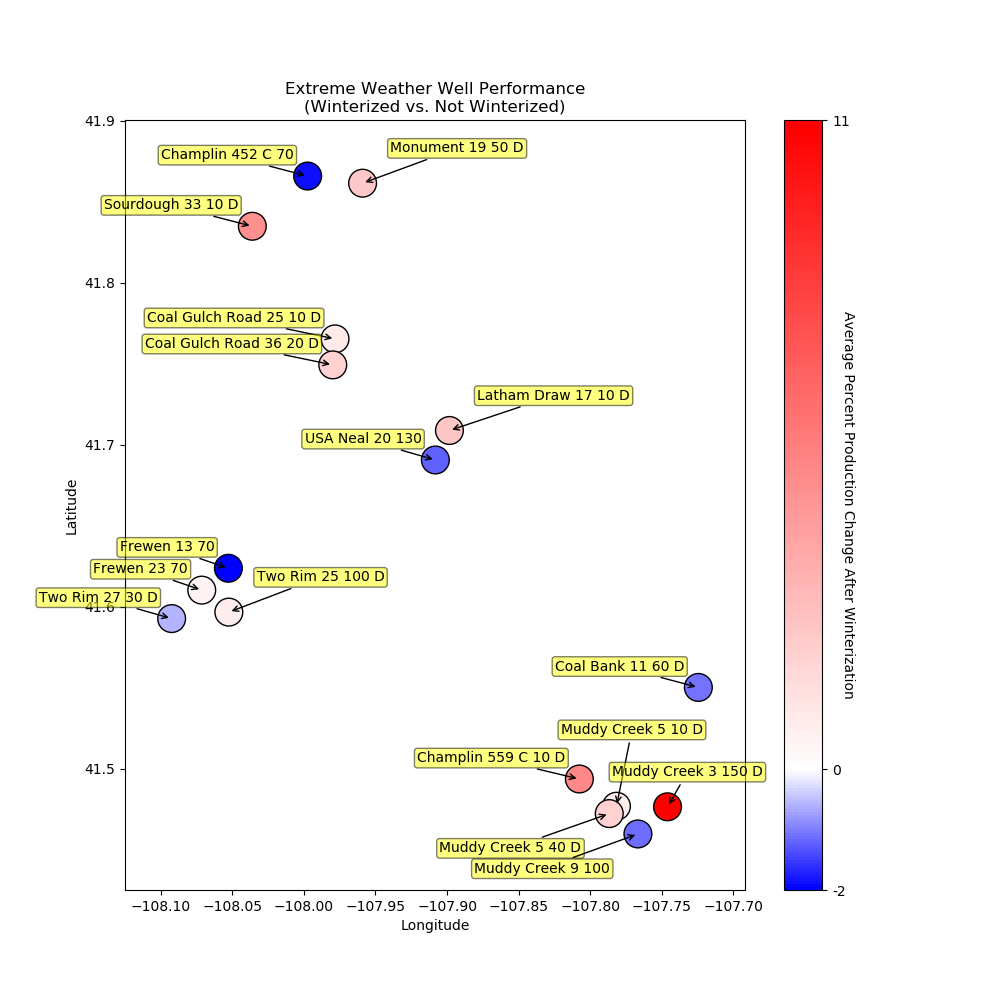
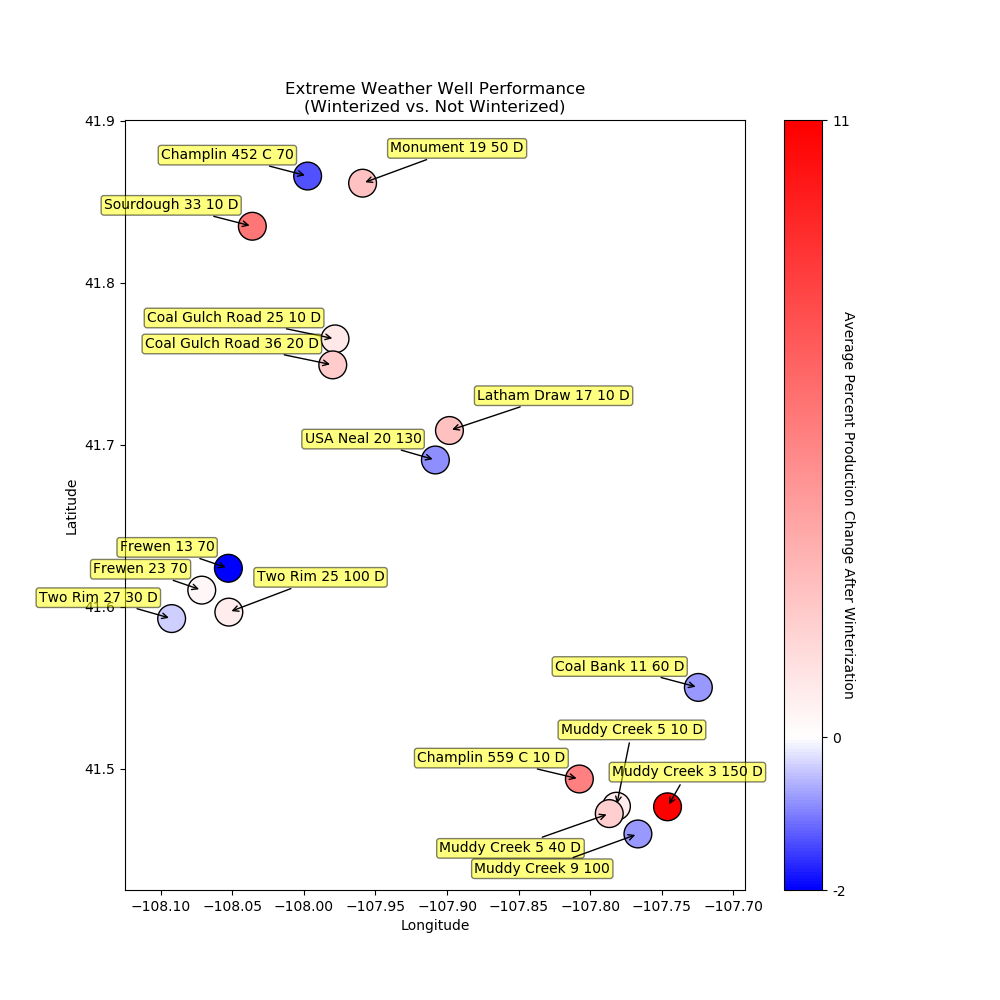
rerunning location plots with correction for natural decline

diff --git a/winterize.py b/winterize.py
@@ -185,25 +185,29 @@ def decline(df):
 								month_df['predict'].shift(1)
 
 			# plot_prod(month_df, y_pred, str(flac))
-			return_df = return_df.append(month_df)
-	return return_df
+			# return_df = return_df.append(month_df)
+
+			df.loc[df['WellFlac'] == flac,'decay'] = np.full(df[df['WellFlac'] == flac].shape[0], \
+															 month_df['decay'].mean())
+	return df
 
 def loc_plot(df, date, worst=False):
 	plt.close()
 	fig, ax = plt.subplots(1, 1, figsize=(10, 10))
 
 	pre_df = df[(df['DateKey'] <= '2017-03-31') & (df['maximumdrybulbtemp'] <= 32)]\
-			   [['WellFlac', 'WellName', 'FacilityName', 'Latitude', 'Longitude', 'Gas']]
-	pre_df = pre_df.groupby(['WellFlac', 'WellName', 'FacilityName', 'Latitude', 'Longitude'], as_index=False).mean()
+			   [['WellFlac', 'WellName', 'FacilityName', 'Latitude', 'Longitude', 'Gas', 'decay']]
+	pre_df = pre_df.groupby(['WellFlac', 'WellName', 'FacilityName', 'Latitude', 'Longitude', 'decay'], as_index=False).mean()
 	pre_df.rename(index=str, columns={'Gas': 'PreGas'}, inplace=True)
 
 	wint_df = df[(df['DateKey'] >= date) & (df['DateKey'] <= '2018-03-01') & \
 				 (df['maximumdrybulbtemp'] <= 32)]\
-				 [['WellFlac', 'WellName', 'FacilityName', 'Latitude', 'Longitude', 'Gas']]
-	wint_df = wint_df.groupby(['WellFlac', 'WellName', 'FacilityName', 'Latitude', 'Longitude'], as_index=False).mean()
+				 [['WellFlac', 'WellName', 'FacilityName', 'Latitude', 'Longitude', 'Gas', 'decay']]
+	wint_df = wint_df.groupby(['WellFlac', 'WellName', 'FacilityName', 'Latitude', 'Longitude', 'decay'], as_index=False).mean()
 
-	plot_df = pd.merge(pre_df, wint_df, on=['WellFlac', 'WellName', 'FacilityName', 'Latitude', 'Longitude'])
-	plot_df.loc[:, 'Difference'] = (plot_df['Gas'] - plot_df['PreGas']) / plot_df['PreGas']
+	plot_df = pd.merge(pre_df, wint_df, on=['WellFlac', 'WellName', 'FacilityName', 'Latitude', 'Longitude', 'decay'])
+	plot_df.loc[:, 'Difference'] = ((plot_df['Gas'] + (plot_df['Gas'] * plot_df['decay']))\
+	 								 - plot_df['PreGas']) / plot_df['PreGas']
 
 	plot_facility = plot_df[['FacilityName', 'Latitude', 'Longitude', 'Difference']]
 	func = {'Latitude': ['mean'], 'Longitude': ['mean'], 'Difference': ['sum']}
@@ -361,8 +365,9 @@ if __name__ == '__main__':
 	df = pd.merge(prod_df, weather_df, how='left', left_on='DateKey', right_on='date')
 
 	df.drop('date', axis=1, inplace=True)
+	df = decline(df)
 
-	# loc_plot(df, date)
+	loc_plot(df, date)
 
 	date = '2018-02-07'
 	prod_df = prod_pull(date)
@@ -371,9 +376,9 @@ if __name__ == '__main__':
 	df = pd.merge(prod_df, weather_df, how='left', left_on='DateKey', right_on='date')
 
 	df.drop('date', axis=1, inplace=True)
-	m_df = decline(df)
+	df = decline(df)
 
-	# loc_plot(df, date, worst=True)
+	loc_plot(df, date, worst=True)
 	# bar_chart(df)
 
 	# Problem wells:
